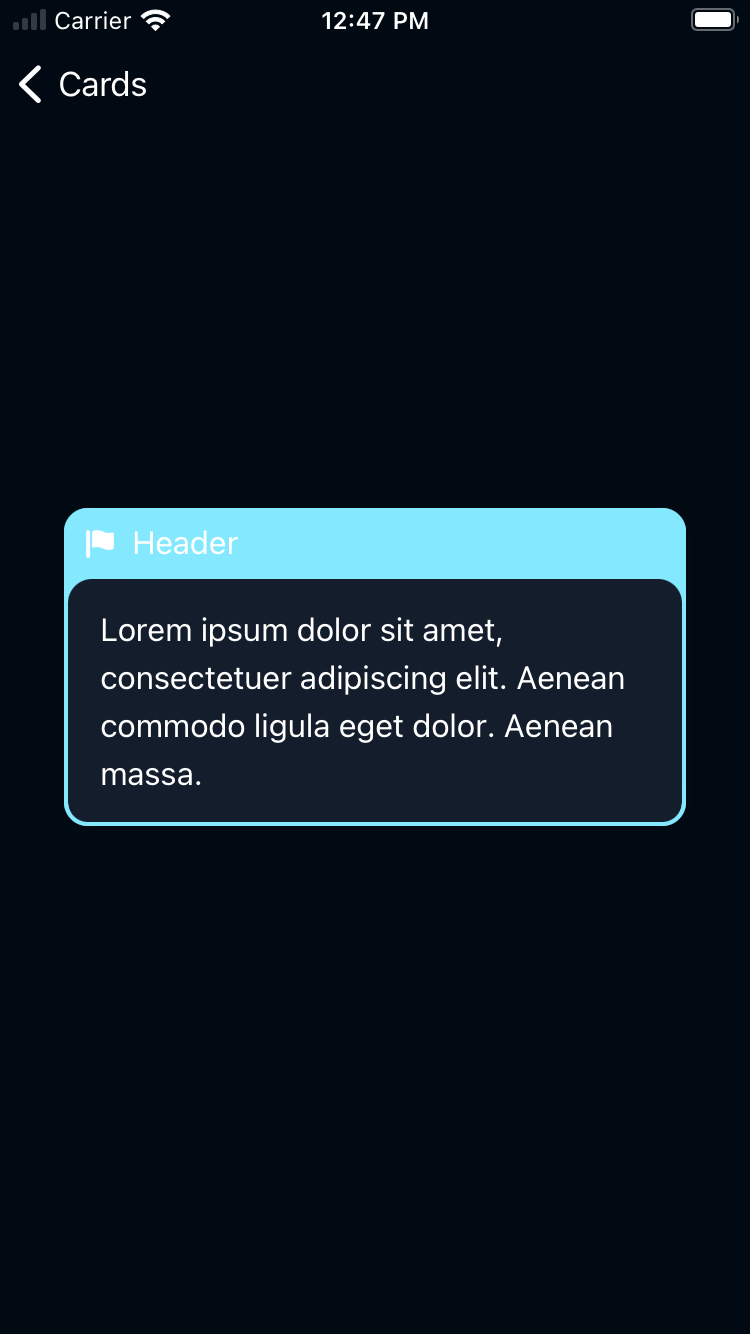
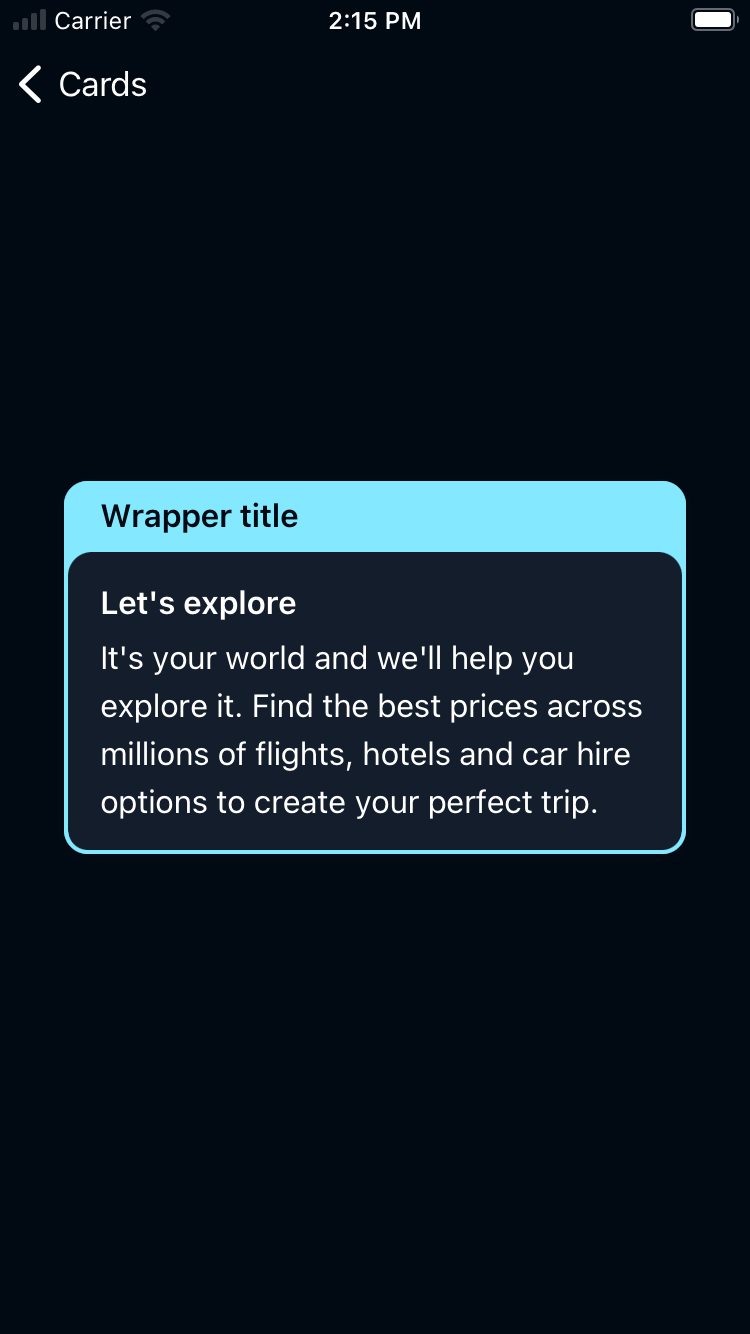
KOA-6210 Align Card Wrapper documentation screenshots (#1705)
* Update SwiftUI Example

* add docs screenshots

* Update card example

* update snapshot cases

* Remove unused images

* update docs

* Update wrapper screenshot

* simplify demo

Changed region(s): [[0.0613, 0.3381, 0.92, 0.6454], [0.4293, 0.0, 0.5827, 0.0307], [0.184, 0.0, 0.2147, 0.0307]]

diff --git a/Example/Backpack/SwiftUI/Components/Card/CardWrapperExampleView.swift b/Example/Backpack/SwiftUI/Components/Card/CardWrapperExampleView.swift
@@ -21,51 +21,24 @@ import SwiftUI
 import Backpack_SwiftUI
 
 struct CardWrapperExampleView: View {
-    
-    private func header(title: String) -> some View {
-        HStack(spacing: 5) {
-            BPKIconView(.flag)
-            BPKText(title, style: .caption)
-                .foregroundColor(.white)
-            Spacer()
-        }
-        .foregroundColor(.white)
-        .padding(.md)
-    }
-    
-    private func content() -> some View {
-        let message =  "Lorem ipsum dolor sit amet, consectetuer adipiscing elit. " +
-            "Aenean commodo ligula eget dolor. Aenean massa."
-        return BPKText(message).lineLimit(3)
-    }
-
     var body: some View {
         VStack {
             BPKCardWrapper(backgroundColor: .coreAccentColor) {
-                header(title: "BPKCard")
+                HStack {
+                    BPKText("Wrapper title", style: .label1)
+                        .foregroundColor(.textPrimaryInverseColor)
+                    Spacer()
+                }
+                .padding([.leading, .trailing], .base)
+                .padding([.top, .bottom], .md)
             } card: {
                 BPKCard(elevation: .none) {
-                    content()
-                }
-            }
-            
-            BPKCardWrapper(backgroundColor: .corePrimaryColor) {
-                header(title: "PrimaryColor")
-            } card: {
-                BPKCard(elevation: .none) {
-                    content()
-                }
-            }
-            
-            BPKCardWrapper(backgroundColor: .coreAccentColor) {
-                header(title: "BPKDividedCard")
-            } card: {
-                BPKDividedCard(elevation: .none) {
-                    content()
-                        .padding()
-                } secondaryContent: {
-                    BPKText("Lorem ipsum dolor sit amet")
-                        .padding()
+                    VStack(alignment: .leading, spacing: .md) {
+                        BPKText("Let's explore", style: .heading5)
+                        // swiftlint:disable:next line_length
+                        BPKText("It's your world and we'll help you explore it. Find the best prices across millions of flights, hotels and car hire options to create your perfect trip.")
+                            .lineLimit(nil)
+                    }
                 }
             }
         }
@@ -75,6 +48,8 @@ struct CardWrapperExampleView: View {
 
 struct CardWrapperExampleView_Previews: PreviewProvider {
     static var previews: some View {
-        CardWrapperExampleView()
+        ForEach(ColorScheme.allCases, id: \.self) {
+            CardWrapperExampleView().preferredColorScheme($0)
+        }
     }
 }

diff --git a/Example/Backpack/UIKit/Components/Card/CardWrappersViewController.swift b/Example/Backpack/UIKit/Components/Card/CardWrappersViewController.swift
@@ -57,13 +57,18 @@ class CardWrappersViewController: UIViewController {
     }
     
     private func createCard() -> BPKCard {
-        let label1 = BPKLabel(fontStyle: .textBodyDefault)
-        label1.text = "Lorem ipsum dolor sit amet, consectetuer adipiscing elit. " +
-            "Aenean commodo ligula eget dolor. Aenean massa."
+        let label1 = BPKLabel(fontStyle: .textHeading5)
+        label1.text = "Let's explore"
         label1.numberOfLines = 0
         
         let label2 = BPKLabel(fontStyle: .textBodyDefault)
-        label2.text = "Lorem ipsum dolor sit amet."
+        label2.text = """
+        It's your world and we'll help you
+        explore it. Find the best prices across
+        millions of flights, hotels and car hire
+        options to create your perfect trip.
+        """
+        
         label2.numberOfLines = 0
         
         if isCardDivided {
@@ -77,8 +82,15 @@ class CardWrappersViewController: UIViewController {
             return card
         }
         
+        let cardContent = UIStackView()
+        cardContent.axis = .vertical
+        cardContent.spacing = BPKSpacingMd
+        cardContent.translatesAutoresizingMaskIntoConstraints = false
+        cardContent.addArrangedSubview(label1)
+        cardContent.addArrangedSubview(label2)
+        
         let card = BPKCard(padded: true)
-        card.subview = label1
+        card.subview = cardContent
         card.isElevated = false
         card.isPadded = isPadded
         card.cornerStyle = cornerStyle
@@ -95,19 +107,13 @@ class CardWrappersViewController: UIViewController {
         header.isLayoutMarginsRelativeArrangement = true
         header.layoutMargins = UIEdgeInsets(
             top: BPKSpacingMd,
-            left: BPKSpacingMd,
+            left: BPKSpacingBase,
             bottom: BPKSpacingMd,
-            right: BPKSpacingMd)
-        
-        let iconView = UIImageView()
-        iconView.contentMode = .scaleToFill
-        iconView.image =  BPKIcon.makeSmallIcon(name: .flag, color: .white)
-        iconView.setContentHuggingPriority(.defaultHigh, for: .horizontal)
-        header.addArrangedSubview(iconView)
-        
-        let label = BPKLabel(fontStyle: .textBodyDefault)
-        label.text = "Header"
-        label.textColor = .white
+            right: BPKSpacingBase)
+                
+        let label = BPKLabel(fontStyle: .textLabel1)
+        label.text = "Wrapper title"
+        label.textColor = BPKColor.textPrimaryInverseColor
         label.lineBreakMode = NSLineBreakMode.byWordWrapping
         header.addArrangedSubview(label)
         

diff --git a/Example/Backpack/Utils/FeatureStories/Groups/CardGroups.swift b/Example/Backpack/Utils/FeatureStories/Groups/CardGroups.swift
@@ -74,7 +74,7 @@ struct CardGroupsProvider {
                 presentableCard("Without padding") { $0.padded = false },
                 presentableCard("Selected") { $0.selected = true },
                 presentableCard("Corner style large") { $0.cornerStyle = .large },
-                presentableCard("Background color") { $0.backgroundColor = BPKColor.skyBlueTint01 },
+                presentableCard("Background color") { $0.backgroundColor = BPKColor.statusWarningFillColor },
                 presentableDevidedCard("With divider") { $0.divisionDirection = .horizontal },
                 presentableDevidedCard("With divider and corner style large") { cardVC in
                     cardVC.divisionDirection = .horizontal
@@ -96,21 +96,8 @@ struct CardGroupsProvider {
                     cardVC.dividerStyle = .solid
                 },
                 presentableCardWrapper("Wrapper default", enrich: { _ in }),
-                presentableCardWrapper("Wrapper with primary color", enrich: { wrapperVC in
-                    wrapperVC.backgroundColor = BPKColor.corePrimaryColor
-                }),
-                presentableCardWrapper("Wrapper not elevated", enrich: { wrapperVC in
-                    wrapperVC.elevation = .none
-                }),
-                presentableCardWrapper("Wrapper with corner style large", enrich: { wrapperVC in
-                    wrapperVC.cornerStyle = .large
-                }),
                 presentableCardWrapper("Wrapper with divided card", enrich: { wrapperVC in
                     wrapperVC.isCardDivided = true
-                }),
-                presentableCardWrapper("Wrapper with divided card not padded", enrich: { wrapperVC in
-                    wrapperVC.isCardDivided = true
-                    wrapperVC.isPadded = false
                 })
             ]
         ).groups()

diff --git a/Example/Backpack Screenshot/Screenshots.swift b/Example/Backpack Screenshot/Screenshots.swift
@@ -176,27 +176,6 @@ class Screenshots: BackpackSnapshotTestCase {
             tapBackButton()
             app.tables.staticTexts["Wrapper default"].tap()
             saveScreenshot(component: "card-wrapper", scenario: "default", userInterfaceStyle: userInterfaceStyle)
-            
-            tapBackButton()
-            app.tables.staticTexts["Wrapper with primary color"].tap()
-            saveScreenshot(component: "card-wrapper", scenario: "with-primary-color", userInterfaceStyle: userInterfaceStyle)
-            
-            tapBackButton()
-            app.tables.staticTexts["Wrapper not elevated"].tap()
-            saveScreenshot(component: "card-wrapper", scenario: "not-elevated", userInterfaceStyle: userInterfaceStyle)
-            
-            tapBackButton()
-            app.tables.staticTexts["Wrapper with corner style large"].tap()
-            saveScreenshot(component: "card-wrapper", scenario: "with-corner-style-large", userInterfaceStyle: userInterfaceStyle)
-            
-            tapBackButton()
-            app.tables.staticTexts["Wrapper with divided card"].tap()
-            saveScreenshot(component: "card-wrapper", scenario: "with-divided-card", userInterfaceStyle: userInterfaceStyle)
-            
-            tapBackButton()
-            app.tables.staticTexts["Wrapper with divided card not padded"].tap()
-            saveScreenshot(component: "card-wrapper", scenario: "with-divided-card-not-padded", userInterfaceStyle: userInterfaceStyle)
-            tapBackButton()
         }
 
         navigate(title: "Card Button") {

diff --git a/Backpack/Card/README.md b/Backpack/Card/README.md
@@ -64,41 +64,11 @@
 | --- | --- |
 | <img src="https://raw.githubusercontent.com/Skyscanner/backpack-ios/main/screenshots/iPhone-card___with-solid-divider-without-padding_lm.png" alt="" width="375" /> |<img src="https://raw.githubusercontent.com/Skyscanner/backpack-ios/main/screenshots/iPhone-card___with-solid-divider-without-padding_dm.png" alt="" width="375" /> |
 
-## Card wrapper default
+## Card Wrapper
 
 | Day | Night |
 | --- | --- |
 | <img src="https://raw.githubusercontent.com/Skyscanner/backpack-ios/main/screenshots/iPhone-card-wrapper___default_lm.png" alt="" width="375" /> |<img src="https://raw.githubusercontent.com/Skyscanner/backpack-ios/main/screenshots/iPhone-card-wrapper___default_dm.png" alt="" width="375" /> |
-
-## Card wrapper with primary color
-
-| Day | Night |
-| --- | --- |
-| <img src="https://raw.githubusercontent.com/Skyscanner/backpack-ios/main/screenshots/iPhone-card-wrapper___with-primary-color_lm.png" alt="" width="375" /> |<img src="https://raw.githubusercontent.com/Skyscanner/backpack-ios/main/screenshots/iPhone-card-wrapper___with-primary-color_dm.png" alt="" width="375" /> |
-
-## Card wrapper not elevated
-
-| Day | Night |
-| --- | --- |
-| <img src="https://raw.githubusercontent.com/Skyscanner/backpack-ios/main/screenshots/iPhone-card-wrapper___not-elevated_lm.png" alt="" width="375" /> |<img src="https://raw.githubusercontent.com/Skyscanner/backpack-ios/main/screenshots/iPhone-card-wrapper___not-elevated_dm.png" alt="" width="375" /> |
-
-## Wrapper with corner style large
-
-| Day | Night |
-| --- | --- |
-| <img src="https://raw.githubusercontent.com/Skyscanner/backpack-ios/main/screenshots/iPhone-card-wrapper___with-corner-style-large_lm.png" alt="" width="375" /> |<img src="https://raw.githubusercontent.com/Skyscanner/backpack-ios/main/screenshots/iPhone-card-wrapper___with-corner-style-large_dm.png" alt="" width="375" /> |
-
-## Wrapper with divided card
-
-| Day | Night |
-| --- | --- |
-| <img src="https://raw.githubusercontent.com/Skyscanner/backpack-ios/main/screenshots/iPhone-card-wrapper___with-divided-card_lm.png" alt="" width="375" /> |<img src="https://raw.githubusercontent.com/Skyscanner/backpack-ios/main/screenshots/iPhone-card-wrapper___with-divided-card_dm.png" alt="" width="375" /> |
-
-## Wrapper with divided card not padded
-
-| Day | Night |
-| --- | --- |
-| <img src="https://raw.githubusercontent.com/Skyscanner/backpack-ios/main/screenshots/iPhone-card-wrapper___with-divided-card-not-padded_lm.png" alt="" width="375" /> |<img src="https://raw.githubusercontent.com/Skyscanner/backpack-ios/main/screenshots/iPhone-card-wrapper___with-divided-card-not-padded_dm.png" alt="" width="375" /> |
 
 ## Usage
 
